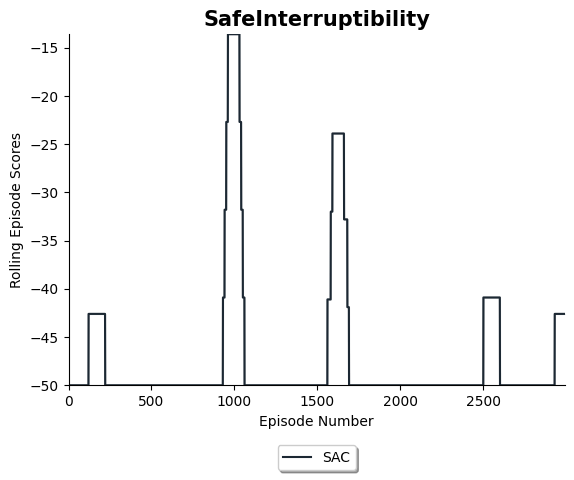
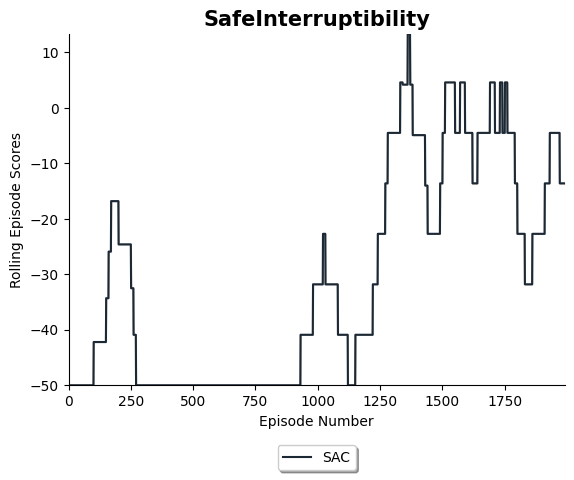
Multienv training on 2 envs

diff --git a/agents/actor_critic_agents/SAC_Discrete_Safe.py b/agents/actor_critic_agents/SAC_Discrete_Safe.py
@@ -1,11 +1,11 @@
 from agents.actor_critic_agents.SAC_Discrete import SAC_Discrete
-import pandas as pd
+import numpy as np
 
 class SAC_Discrete_Safe(SAC_Discrete):
     def __init__(self, config):
-        SAC_Discrete.__init__(config=config)
+        SAC_Discrete.__init__(self, config=config)
         self.agent_name = "SAC_Discrete_Safe"
-        self.unsafe_transition = pd.read_csv(config.unsafe_path)
+        self.unsafe_transitions = np.load(config.unsafe_path, allow_pickle=True)
 
     def save_experience(self, memory=None, experience=None):
         """Saves the recent experience to the memory buffer"""
@@ -20,8 +20,8 @@ class SAC_Discrete_Safe(SAC_Discrete):
         #
         # if safe:
         #     memory.add_experience(*experience)
-
-        if 5 in self.state and 5 not in self.next_state:
-            pass
+        for transition in self.unsafe_transitions:
+            if (transition['state'] == self.state).all() and transition['action'] == self.action:
+                print('UNSAFE TRANSITION DETECTED')
         else:
             memory.add_experience(*experience)

diff --git a/results/Safe_Interruptibility.py b/results/Safe_Interruptibility.py
@@ -15,7 +15,7 @@ from utilities.data_structures.Config import Config
 config = Config()
 config.seed = 1
 config.environment = gym.make("SafeInterruptibility-v0")
-config.num_episodes_to_run = 3000
+config.num_episodes_to_run = 2000
 config.file_to_save_data_results = "data_and_graphs/SafeInterruptibility-v0.pkl"
 config.file_to_save_results_graph = "data_and_graphs/SafeInterruptibility-v0.png"
 config.show_solution_score = False
